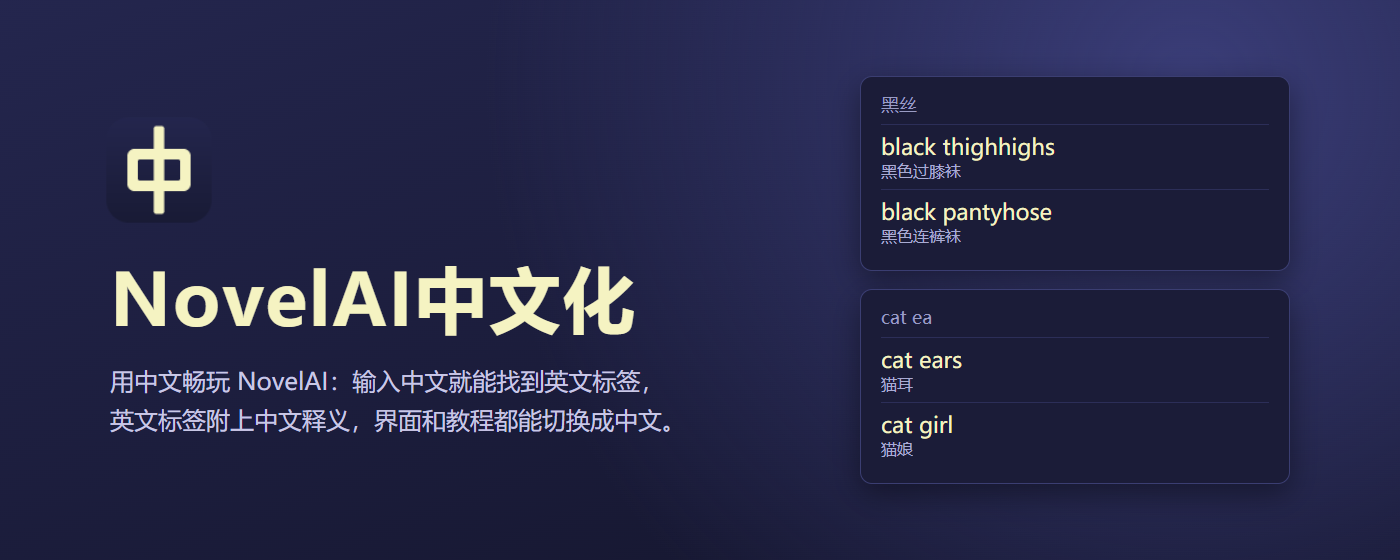
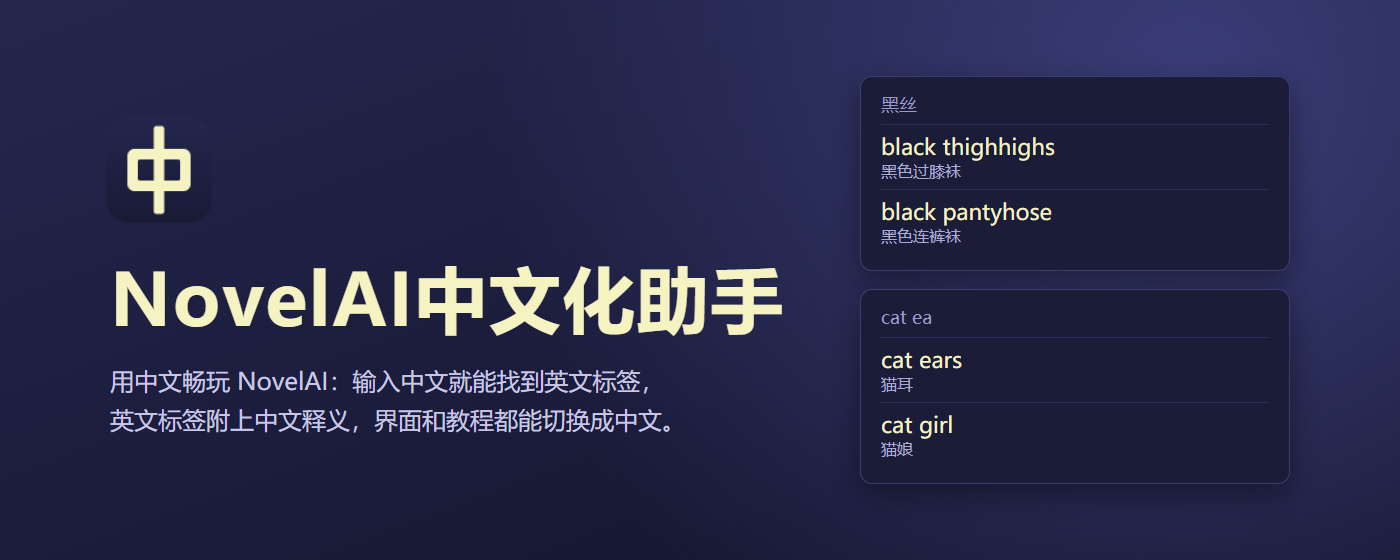
Rename the extension to NovelAI中文化助手

Changed region(s): [[0.43, 0.4554, 0.5529, 0.6071]]

diff --git a/store/README.md b/store/README.md
@@ -15,13 +15,13 @@ npm run crx
 
 名称和摘要来自 manifest（`scripts/crx.mjs` 里的 `EXT_NAME`、`EXT_DESCRIPTION`），上传后自动填好：
 
-- 名称：NovelAI中文化
+- 名称：NovelAI中文化助手
 - 摘要：用中文畅玩 NovelAI：输入中文就能找到对应的英文标签，英文标签也附上中文释义，界面和教程都能切换成中文。（非官方扩展）
 
 **说明（中文）**
 
 ```
-NovelAI中文化，让中文用户用起 NovelAI 更顺手。
+NovelAI中文化助手，让中文用户用起 NovelAI 更顺手。
 
 ✦ 用中文找标签
 在生图提示词框里直接打中文，比如「黑丝」「猫耳」「七分身」，就会联想出对应的英文标签，点一下或按回车即可插入。繁体中文也能识别。
@@ -45,7 +45,7 @@ NovelAI中文化，让中文用户用起 NovelAI 更顺手。
 **说明（English，可作为第二种语言添加）**
 
 ```
-NovelAI中文化 makes NovelAI comfortable to use in Chinese.
+NovelAI中文化助手 makes NovelAI comfortable to use in Chinese.
 
 ✦ Find tags in Chinese
 Type Chinese in the image prompt box (e.g. 黑丝, 猫耳) and get the matching English Danbooru tags as suggestions; click or press Enter to insert. Traditional Chinese works too.

diff --git a/PRIVACY.md b/PRIVACY.md
@@ -1,6 +1,6 @@
 # 隐私政策 / Privacy Policy
 
-适用于用户脚本「NovelAI 中文标签联想」和 Chrome 扩展「NovelAI中文化」。
+适用于用户脚本「NovelAI 中文标签联想」和 Chrome 扩展「NovelAI中文化助手」。
 
 ## 不收集任何数据
 
@@ -23,7 +23,7 @@
 
 ---
 
-This policy covers the userscript "NovelAI 中文标签联想" and the Chrome extension "NovelAI中文化".
+This policy covers the userscript "NovelAI 中文标签联想" and the Chrome extension "NovelAI中文化助手".
 
 **No data is collected.** The extension does not collect, store or transmit any personal or usage data, contains no analytics or advertising code, and sends nothing to the developer or any third party. The tag dictionary and UI translations are bundled; no code or data is downloaded at runtime.
 

diff --git a/README.md b/README.md
@@ -36,7 +36,7 @@ npm run crx     # 打包到 build/
 
 签名私钥第一次打包时生成在 `.keys/novelai-zh-tags.pem`（已在 `.gitignore` 里），也可以用环境变量 `CRX_KEY` 指定。扩展 ID 由私钥决定，换了私钥就成了另一个扩展，请备份好。扩展不会自动更新，也不要和用户脚本同时启用。
 
-扩展在商店里叫「NovelAI中文化」。上架用的介绍文字、截图、宣传图和隐私权一栏的填法在 [store/](store/README.md)，隐私政策见 [PRIVACY.md](PRIVACY.md)。
+扩展在商店里叫「NovelAI中文化助手」。上架用的介绍文字、截图、宣传图和隐私权一栏的填法在 [store/](store/README.md)，隐私政策见 [PRIVACY.md](PRIVACY.md)。
 
 ## 界面汉化
 
